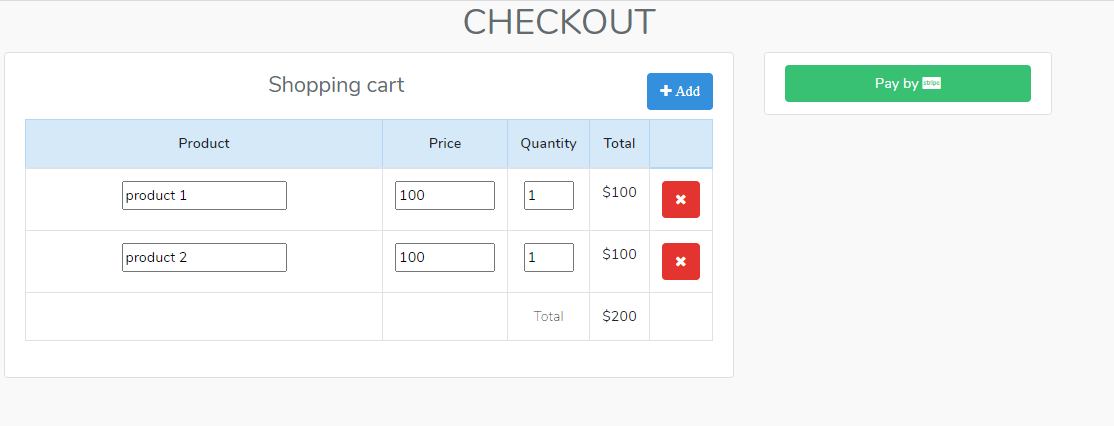
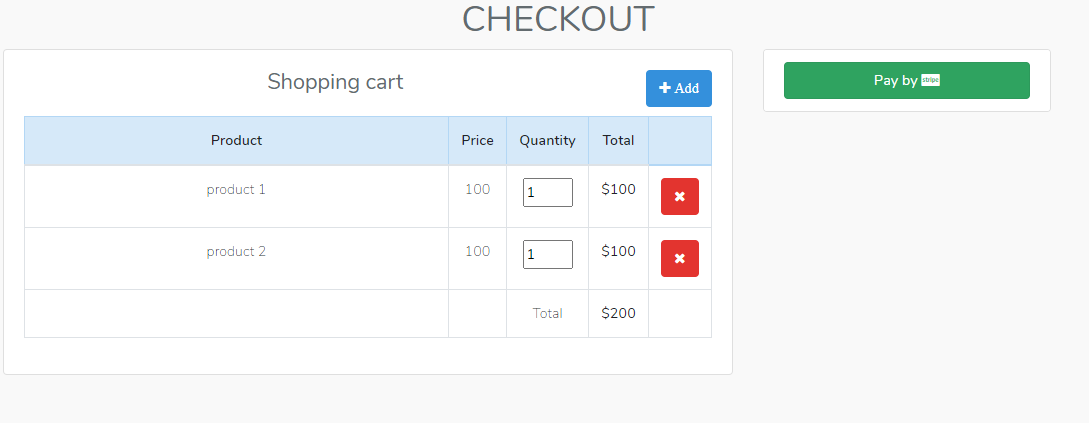
add checkout image

diff --git a/public/js/app.js b/public/js/app.js
@@ -1976,7 +1976,7 @@ __webpack_require__.r(__webpack_exports__);
           total: 0
         }, {
           product: "product 2",
-          price: 100,
+          price: 50,
           quantity: 1,
           total: 0
         }]
@@ -1990,9 +1990,9 @@ __webpack_require__.r(__webpack_exports__);
     add: function add() {
       this.cart.items.push({
         product: "product" + Math.floor(Math.random() * 100) + 1,
-        price: 100,
+        price: Math.floor(Math.random() * 100) + 50,
         quantity: 1,
-        total: 100
+        total: this.price * this.quantity
       });
       this.updateCartTotal();
     },
@@ -37817,51 +37817,9 @@ var render = function() {
   var _h = _vm.$createElement
   var _c = _vm._self._c || _h
   return _c("tr", [
-    _c("td", { staticClass: "col-sm-3" }, [
-      _c("input", {
-        directives: [
-          {
-            name: "model",
-            rawName: "v-model",
-            value: _vm.p_item.product,
-            expression: "p_item.product"
-          }
-        ],
-        domProps: { value: _vm.p_item.product },
-        on: {
-          input: function($event) {
-            if ($event.target.composing) {
-              return
-            }
-            _vm.$set(_vm.p_item, "product", $event.target.value)
-          }
-        }
-      })
-    ]),
+    _c("td", { staticClass: "col-sm-3" }, [_vm._v(_vm._s(_vm.p_item.product))]),
     _vm._v(" "),
-    _c("td", { staticClass: "col-sm-3" }, [
-      _c("input", {
-        directives: [
-          {
-            name: "model",
-            rawName: "v-model",
-            value: _vm.p_item.price,
-            expression: "p_item.price"
-          }
-        ],
-        staticStyle: { width: "100px" },
-        attrs: { type: "number" },
-        domProps: { value: _vm.p_item.price },
-        on: {
-          input: function($event) {
-            if ($event.target.composing) {
-              return
-            }
-            _vm.$set(_vm.p_item, "price", $event.target.value)
-          }
-        }
-      })
-    ]),
+    _c("td", { staticClass: "col-sm-3" }, [_vm._v(_vm._s(_vm.p_item.price))]),
     _vm._v(" "),
     _c("td", { staticClass: "col-sm-3" }, [
       _c("input", {

diff --git a/resources/js/components/ItemComponent.vue b/resources/js/components/ItemComponent.vue
@@ -1,7 +1,7 @@
 <template>
   <tr >
-    <td class="col-sm-3"><input v-model="p_item.product"  /></td>
-    <td class="col-sm-3"><input style="width:100px" type="number" v-model="p_item.price"  /></td>
+    <td class="col-sm-3">{{p_item.product}}</td>
+    <td class="col-sm-3">{{p_item.price}}</td>
     <td class="col-sm-3"><input style="width:50px" type="number" min="1" v-model="p_item.quantity"  /></td>
     <td class="col-sm-3"><strong>${{total}}</strong></td>
     <td><button  class="btn btn-danger" @click="remove"><i class="fa fa-times" aria-hidden="true"></i></button></td> 

diff --git a/resources/js/components/CartComponent.vue b/resources/js/components/CartComponent.vue
@@ -69,7 +69,7 @@ export default {
           },
           {
             product: "product 2",
-            price: 100,
+            price: 50,
             quantity: 1,
             total: 0,
           },
@@ -85,9 +85,9 @@ export default {
     add() {
       this.cart.items.push({
         product: "product" + Math.floor(Math.random() * 100) + 1,
-        price: 100,
+        price: Math.floor(Math.random() * 100) + 50,
         quantity: 1,
-        total: 100,
+        total: this.price * this.quantity,
       });
       this.updateCartTotal();
     },
